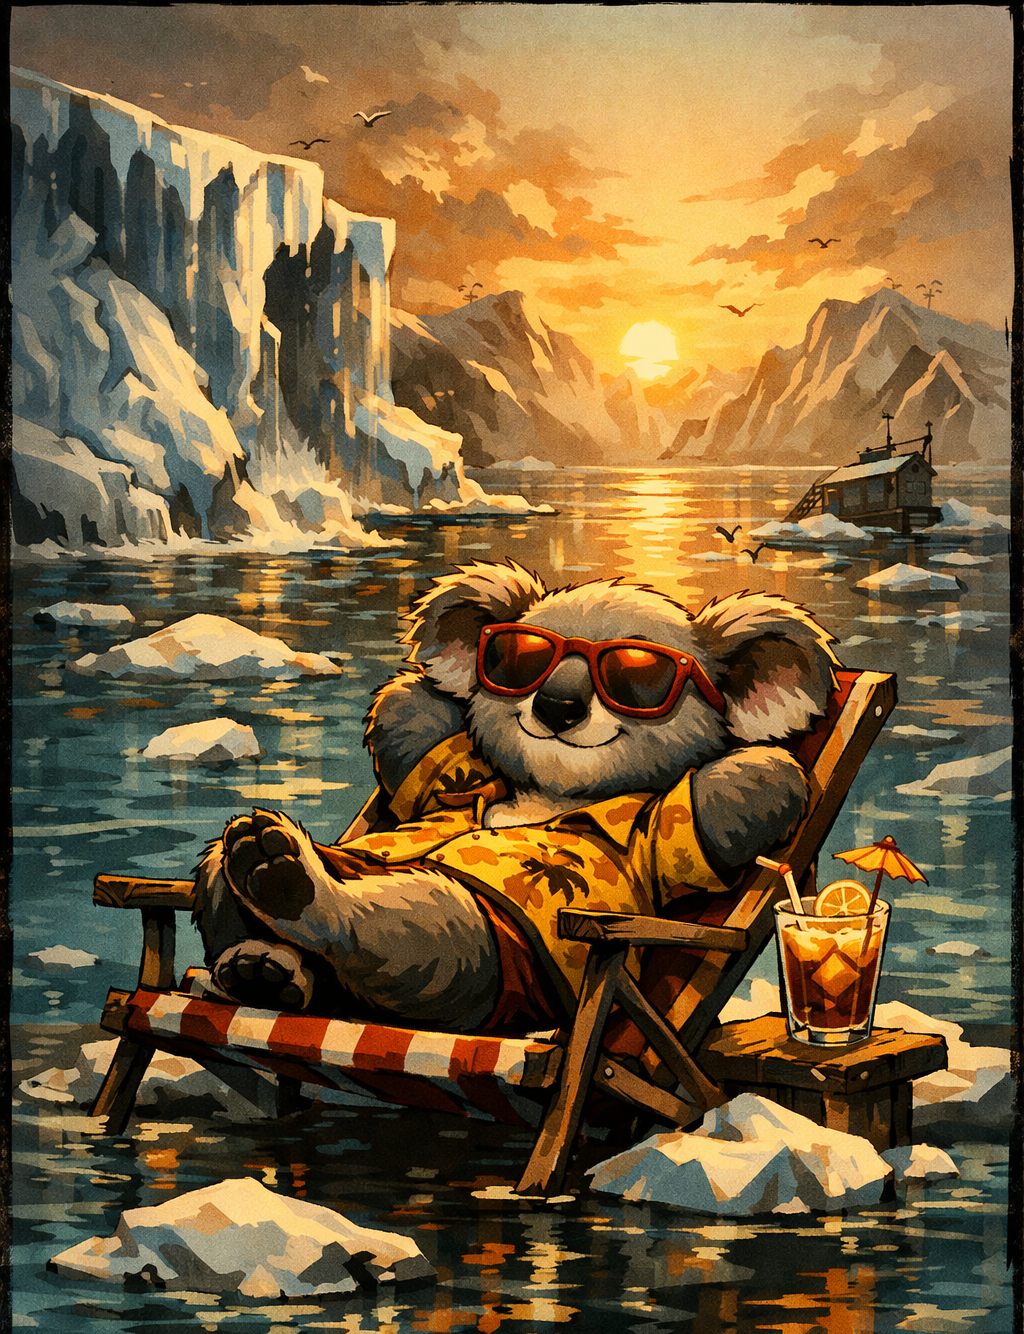
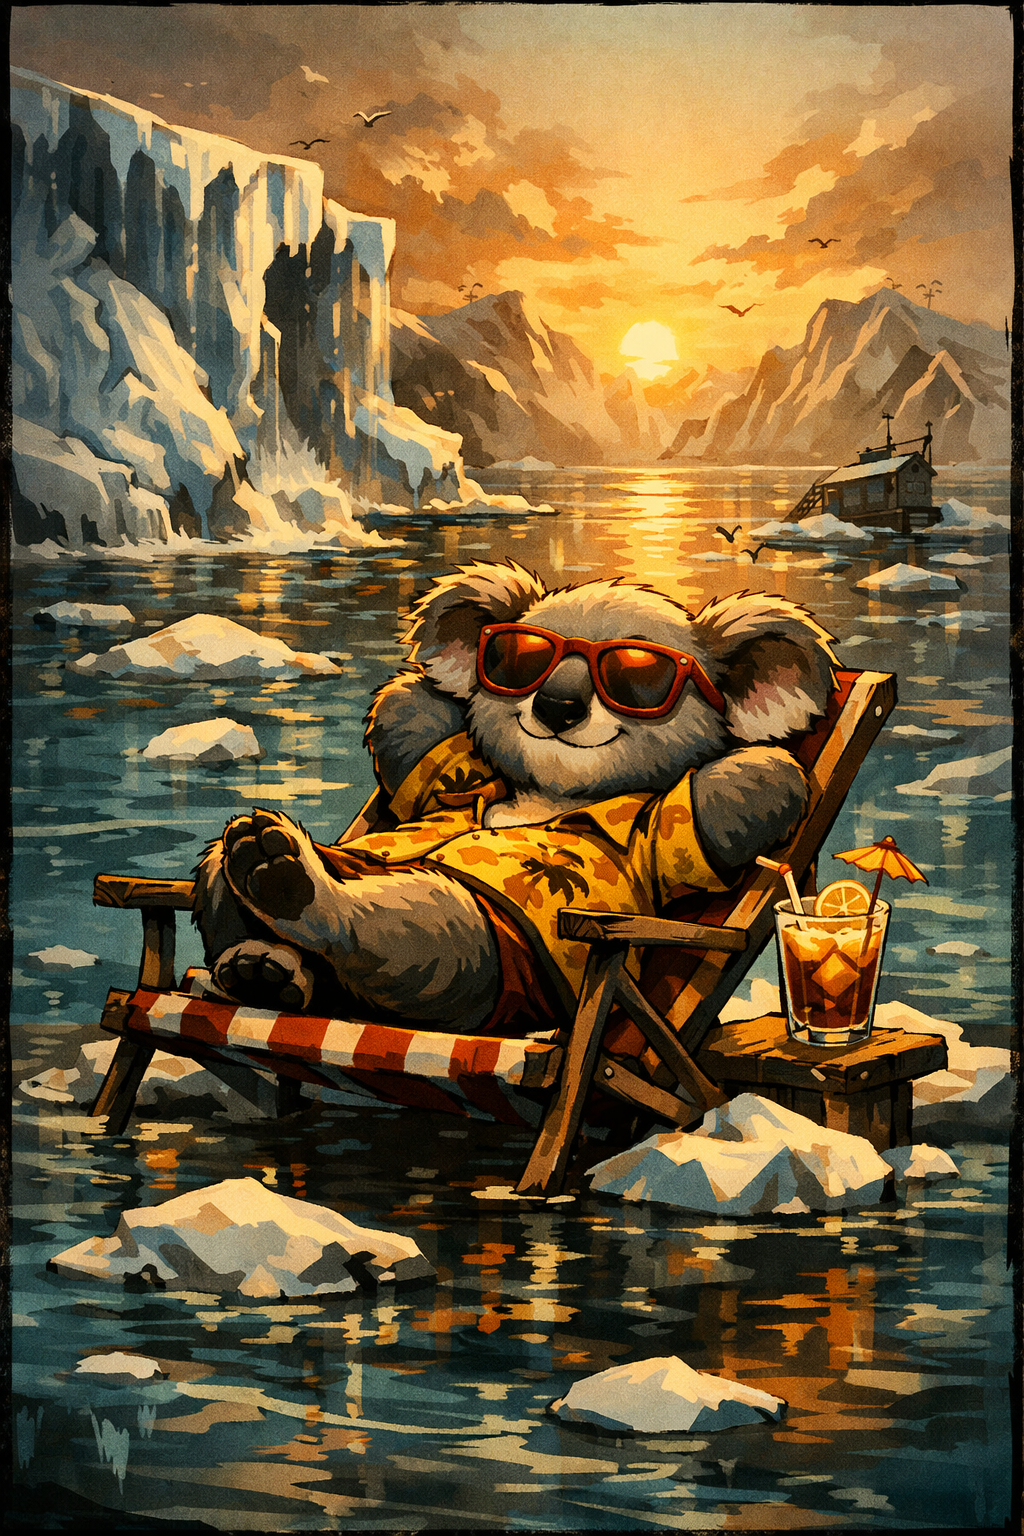
remove unneeded images

diff --git a/index.html b/index.html
@@ -10,7 +10,7 @@
 <body>
     <!-- Hero Image -->
     <div class="hero-image">
-        <img src="assets/coco1.png" alt="Coco the Koala" id="cocoImage" onerror="this.style.display='none'">
+        <img src="assets/coco-koala.png" alt="Coco the Koala" id="cocoImage" onerror="this.style.display='none'">
         <div class="hero-overlay">
             <h1 class="hero-title">Koala CoCo</h1>
             <p class="hero-subtitle">Your CO2 Comparer</p>
